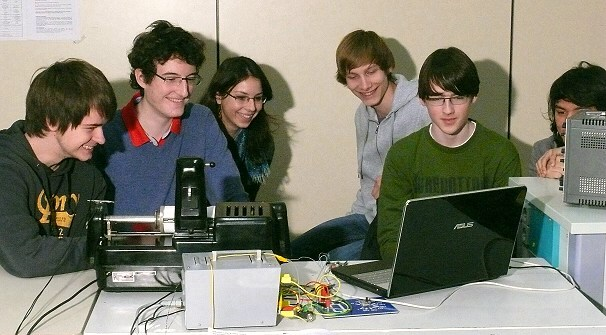
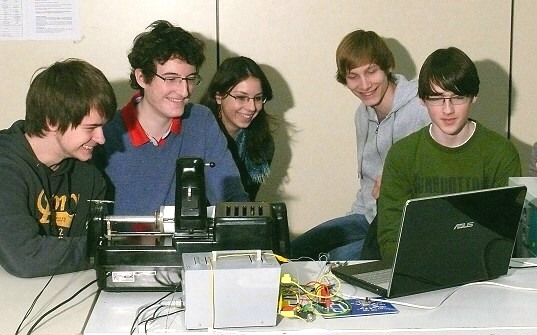
...insbesondere Fax-PC-Projekt erweitert
git-svn-id: https://www.technikum29.de/svn/technikum29-www@1007 388e7c26-a98e-49f6-8d48-46b9a15b27c2

diff --git a/de/lernprojekte/index.php b/de/lernprojekte/index.php
@@ -7,33 +7,39 @@
 ?>
  <h2>Lernprojekte</h2>
 
-<p>Die <i>technikum29-Lernprojekte</i> sind u.a. eine Sammlung von Präsentationsdateien, die zum Teil nur gegen Passworteingabe zugänglich sind. 
 
-Bei Problemen beim Zugriff wenden sie sich an <a href="/de/impressum.php">das Projektmanagament</a>.</p>
-
-<h3 id="aes"> Das technikum29-Team unterstützt Projekte an der Schule</h3>
+<h3 id="aes"> Rotationsfax der 50er Jahre sendet Bild an einen Laptop</h3>
 
 <p>Microcontroller revolutionieren die Welt, wie an Schulen zukunftsweisende Projekte geplant und ausgeführt werden können.<br>
 Worum geht es? <br>
-6 Schüler der Q1 des Albert-Einstein-Gymnasiums suchten für ihre Projektwoche ein interessantes Thema aus den Gebieten Physik/Mathematik/Informatik. Hier bot sich eine Zusammenarbeit der Schule mit dem technikum29 an.  
-Ziel war es, die Technik der 50er Jahre an die aktuelle Zeit anzubinden: Eine Kommunikation zwischen eigentlich nicht zusammenpassenden  Welten!<br>
+5 Schüler der Q1 des Albert-Einstein-Gymnasiums suchten für ihre Projektwoche ein interessantes Thema aus den Gebieten Physik/Mathematik/Informatik. Hier bot sich eine Zusammenarbeit der Schule mit dem technikum29 an.  
+Ziel war es, die Technik der 50er Jahre an die aktuelle Zeit anzubinden: Eine Kommunikation zwischen eigentlich nicht zusammenpassenden  Welten!
 <div class="box left">
-        <img src="/shared/photos/kommunikationstechnik/arduino1.jpg" width="606" height="335" />
+        <img src="/shared/photos/kommunikationstechnik/arduino1.jpg" width="303" height="189" />
        </div>
-<p>Um eine solche Kommunikation herzustellen bedurfte es bisher eines „Herrschaftswissens“ welches sich auf wenige spezialisierte Informatiker und Ingenieure beschränkte. Dafür musste man wochenlang Datenblätter lesen und dann kryptische Codes in Assembler schreiben.
-Seit 2009 gibt es ein preiswertes unscheinbares Modul, den „Arduino* -Controller“, ein kleiner Microcontroller (ATmega 328, mit 32 kB Speicher), der auch relativen Laien  mit überschaubaren Programmierkenntnissen zugänglich ist.  Hiermit können Erfinder, Visionäre, Künstler und Designer ihre kreativen Möglichkeiten drastisch erhöhen. Es geht ganz allgemein um die Anbindung der realen, physikalischen Welt an einen Computer. <br>
+<p>Im Rahmen von "Physical-Computing" gibt es seit 2009 ein preiswertes unscheinbares Modul, den „Arduino* -Controller“, ein kleiner Microcontroller (ATmega 328, mit 32 kB Speicher), in dessen Programmierung sich auch relative Laien schnell einarbeiten können. Hiermit ergibt sich die Möglichkeit für Erfinder, Visionäre, Künstler und Designer ihre Kreativität drastisch zu erhöhen. Es geht ganz allgemein um die Anbindung der realen, physikalischen Welt an einen Computer. <br>
 	 
 <p>Dieses kleine Modul lässt sich als Interface für alle nur denkbare Zwecke programmieren. Die Schüler beabsichtigten, ein Faxgerät der Frühzeit (Siemens KF108, Baujahr 1956) mit einem PC kommunizieren zu lassen. Bei diesem Fax, damals noch „Fernkopierer“ genannt, wird das Blatt mit der zu übertragenden Information (z.B. ein Bild) auf eine Walze gespannt und schraubenförmig durch Rotation ab gescannt. Ein solches Gerät kann natürlich mit den Heutigen nicht kommunizieren. Hier hilft der Microcontroller als Bindeglied. Die Schüler mussten sich in die Programmierung eines solchen Controllers einarbeiten. Dabei sind jedoch einige Hürden zu überwinden, schließlich waren die Schüler (noch) keine Star-Programmierer. Während falsch aufgebaute Hardware umständlich zerpflückt werden müsste, sind falsch laufende Programme schnell korrigiert. Und so entstand nach einer Woche Projektarbeit die perfekte Anbindung dieser zwei so verschiedenen Technikwelten.<br>
 
-<div class="box left">
-        <img src="/shared/photos/kommunikationstechnik/arduino2.jpg" width="606" height="354" />
-       </div>
+<div class="box center">
+        <img src="/shared/photos/kommunikationstechnik/kf108+laptop.jpg" width="700" height="438" />
+      
+	   <p class="bildtext small"> Projekt Fax-PC: Unten links der Versuchsaufbau für die Impulsgenerierung, Mitte: Fertige Schaltung (s.u.). Etwa die Hälfte des Bildes wurde gescannt.</p></div>
+	   
  <p>Das Fax sendet eine Tonfrequenz von 1,5 kHz beim scannen schwarzer Pixel und keinen Ton bei weißen Pixel. Dies muss in ein binäres Signal mit 5V-Level gewandelt werden.<br>
-Eine Verstärkerschaltung mit nachgeschaltetem RC-Glied übernimmt diesen Part.
+Es werden also "Tonpakete" ausgesendet, von denen nur noch die Hüllkurve mit 5V-Pegel benötigt wird. Im einfachsten Fall übernimmt eine Verstärkerschaltung mit nachgeschaltetem RC-Glied diesen Part. In einer verbesserten Version haben wir mit Hilfe des bekannten "555-Timer IC" durch die Schaltung <a class="go"href="http://www.electronicsinfoline.com/pin/11479" target="_blank">"Basic Missing Pulse Detector"</a> die Hüllkurve noch exakter reproduzieren können.<br>
+<div class="box left">
+        <img src="/shared/photos/kommunikationstechnik/impulsgenerierung.jpg" width="303" height="221" />
+		<p class="bildtext small">Schaltung als Bindeglied zwischen Fax und Arduino</p></div>
+	   
 Zum Aufbau des Bildes wird noch eine Information für den jeweiligen Beginn einer neuen Zeile benötigt. Dies wurde durch das Befestigen eines kleinen Supermagneten an der Drehachse realisiert. Ein in ca. 2cm Entfernung befindlicher Reedkontakt wird bei jeder Umdrehung für kurze Zeit aktiviert.<br>
-Die eigentliche Programmierarbeit wurde von den Schülern selbst entwickelt und kann hier eingesehen werden. <a href="arduino-projekt-programme" class="go">Source-Code-Ordner öffnen</a> <br>
+In unserem Fall wurden die weißen Pixel (kein Ton) durch den Arduino in eine "0" umgesetzt, die schwarzen Pixel in eine "1" und ein Zeilensprung (Zylinderumlauf) in eine "2". Damit sendet der Arduino einen aus den Ziffern 0;1;2 bestehenden Datenstream.<br>
+Mit Hilfe des Programms "Processing" generiert der angeschlossene Laptop schließlich daraus das Bild. <br>
 
-Gemächlich wird das schraubenförmig abgetastete Bild in Realtime auf den PC übertragen. Mit guter Auflösung zeichnet sich Zeile für Zeile eine historische Micky-Mouse auf dem Monitor des Laptops ab. Das Experiment ist geglückt und macht Mut zu weiteren kreativen Anwendungen dieser zukunftsweisenden Technik.</p>
+Gemächlich wird das schraubenförmig abgetastete Bild in Realtime auf den PC übertragen. Mit guter Auflösung zeichnet sich Zeile für Zeile eine historische Micky-Maus auf dem Monitor des Laptops ab. Das Experiment ist geglückt und macht Mut zu weiteren kreativen Anwendungen dieser zukunftsweisenden Technik.<br>
+Die eigentliche Programmierarbeit wurde von den Schülern selbst entwickelt und später vom technikum29-Team weiter verbessert. <a href="arduino-projekt-programme" class="go">Source-Code-Ordner öffnen</a> </p>
+
+
 <p class="small">
 *)  Arduino: …ist nach dem König „Arduino von Ivrea“, der im Mittelalter in Norditalien lebte, benannt. Dort wurde auch der Controller entwickelt und nicht wie sonst üblich in Fernost oder Silicon Valley.
 </small>

diff --git a/de/geraete/pianola-funktionserklaerung/index.php b/de/geraete/pianola-funktionserklaerung/index.php
@@ -51,10 +51,10 @@ Ein flacher Notengleitblock mit 88 Öffnungen in einer Reihe (für 88 mögliche 
 <div class="box center" title="Zum Vergrößern klicken">
    <a href="zoomgrafiken/schema-uebersicht.png"><img style="border: none;" src="zoomgrafiken/thumb.schema-uebersicht.png" alt="Pneumatisches Verstärkersystem"></a>
    <p>Schema eines einzelnen Spielbalgs mit Vor- und Hauptventil, welches für den Anschlag einer Saite verantwortlich ist.
-   (<a href="zoomgrafiken/schema-uebersicht.png">größeres Bild</a>)</p>
+   (<a href="zoomgrafiken/schema-uebersicht.png">größeres Bild</a>)
 </div>
 
-<p>Die Funktionsweise eines solchen Systems wird im Folgendenden anschaulich
+Die Funktionsweise eines solchen Systems wird im Folgendenden anschaulich
 erklärt. Ferner stehen ein halbes Dutzend hochauflösende Schemata bereit, die die jeweiligen Stadien erläutern.</p>
 
 
@@ -73,7 +73,7 @@ erklärt. Ferner stehen ein halbes Dutzend hochauflösende Schemata bereit, die 
 den Anschlag eines einzelnen Tones verantwortlich ist. Da das Klavier 88 Töne
 hat, gibt es 88 von diesen kleinen Spielbälge, die in drei Reihen untereinander
 liegen. Sie sind einfach zu groß, um sie alle nebeneinander anbringen zu können. 
-</p> Durch alle Systeme hindurch ziehen sich zwei Kammern, die andauernd
+<br> Durch alle Systeme hindurch ziehen sich zwei Kammern, die andauernd
 Luft raussaugen und so in jedem System einen Unterdruck erzeugen (Unterdruck wird
 gelb dargestellt, atmosphärischer Druck blau). Durch die Position der
 Ventile werden die unterschiedlichen Luftleitungen mit den Unterdruckkammern
@@ -131,11 +131,9 @@ seinem Zustand verbleiben und könnte kein weiteres Mal einen Ton spielen. Noch 
 Unterdruck herrscht. Sie hat jedoch nur eine ganz kleine Öffnung. Dadurch ist sie mit dem System ganz rechts verbunden. Auf diese Weise ist ihre
 Wirkung auf das System zwar nur minimal, jedoch stark genug, um nach dem Verschluss des Loches in der Notenrolle den Unterdruck in dem ersten System wieder schnell herzustellen. Dadurch sinkt auch wieder das Vorventil, im mittleren System entsteht wieder Unterdruck, daraufhin sinkt das Hauptventil nach unten und der Spielbalg zieht sich aufgrund seines eigenen Gewichtes und einer kleinen Feder wieder auseinander.
 <p>Nun ist das Pianola bereit, den nächsten Ton zu spielen. Der ganze Vorgang muss natürlich mit einer sehr hohen Geschwindigkeit ablaufen, damit auch schnelle Läufe fehlerfrei gespielt werden.</p>
-<p>Das Pianola kann Stücke spielen, die aufgrund des schnellen Handwechsels von keinem Spieler spielbar wäre. Daher wurden auch speziell Klavierstücke für Pianola geschrieben, die sehr virtuos sind, z.B. "Studies for Player Piano" von Conlon Nancarrow.</p>
+<p>Das Pianola kann Stücke spielen, die aufgrund des schnellen Handwechsels von keinem Spieler spielbar wäre. Daher wurden auch speziell Klavierstücke für Pianola geschrieben, die sehr virtuos sind, z.B. "Studies for Player Piano" von Conlon Nancarrow.<br>
 
 Würde man intelligente Menschen aus der heutigen hochtechnisierten Zeit damit beauftragen, ein solches Instrument nur mit Hilfe von Holz, Metall, Leder, "Gummihaut" und Knochenleim zu erfinden, kann man davon ausgehen, dass die meisten keine Chance hätten das gesteckte Ziel zu erreichen. Die hier beschriebenen Vorgänge sind eine vereinfachte Version der sehr viel umfangreicheren komplexen Vorgänge in einer Pianola.</p>
-Wenn man überlegt, wie rasend schnell diese Vorgänge ablaufen müssen, so gerät man in Ehrfurcht vor den mechanischen Fähigkeiten der Menschen aus dieser Zeit.
+Wenn man überlegt, wie rasend schnell diese Vorgänge ablaufen müssen, so gerät man in Ehrfurcht vor den mechanischen Fähigkeiten der Menschen aus dieser Zeit.<br><br>
 
-<h3>Präsentationsmaterialien zur Pianola</h3>
-
-<p>Eine Powerpoint-Präsentation steht in den <a href="/de/lernprojekte/#Liste_anderer_Projekte">Lernprojekten</a> unter <a class="go" href="/de/lernprojekte/pianola">Pianola-Präsentation</a> zur Verfügung.</p>
+Eine Powerpoint-Präsentation mit weiteren Bildern während der Restauration steht unter <a class="go" href="/de/lernprojekte/pianola">Pianola-Präsentation</a> zur Verfügung.</p>

diff --git a/robotik/index.php b/robotik/index.php
@@ -119,9 +119,9 @@ Termine für die Kurse in den Sommerferien 2016, jeweils vormittags von 10 bis 1
 	<div  class="box bordered nomargin-bottom" id="3D">
 	<p class="bildtext"><big><big><b>Physical-Computing & Robotics </b></big></big>   (In Vorbereitung) <br><br>
 	
-	Unter Physical Computing versteht man Projekte, bei denen Computer oder Minicontroller (z.B. RasPi, Arduino) durch physische Systeme wie Sensoren oder Aktuatoren zu einer interaktiven Einheit verbunden werden.<br><br>
+	Unter Physical Computing versteht man Projekte, bei denen Computer oder Micro-Controller (z.B. RasPi, Arduino) durch physische Systeme wie Sensoren oder Aktuatoren zu einer interaktiven Einheit verbunden werden.<br><br>
 	Wir beschäftigen uns in diesem Workshop also vorwiegend mit der Programmierung des Arduino Micro-Controllers. Im Gegensatz zu den LEGO-Robotern wird hier eine "richtige" Programmiersprache verwendet, die man auch relativ schnell erlernen kann. Die Abstarktion ist jedoch deutlich größer, daher eignet sich der Kurs für Schüler ab ca. 14 Jahre. Nach oben gibt es eigentlich keine Grenze.<br>
-	Die Liste der möglichen Projekte ist sehr lang. Vom sprechenden Tee-Automaten bis zum intelligenten Roboter-Fahrzeug sind die einzelnen Module sehr abwechslungsreich. Dazu stehen uns eine große Palette an Sensoren, viele verschiedene Display´s und sehr unterschiedliche Motoren zur Verfügung. Ferner haben wir einen 3D-Drucker, mit welchem wir dreidimensionale Objekte und Bauteile ausdrucken können. Diese werden vorher mit Hilfe von CAD-Programmen erstellt.<br>
+	Die Liste der möglichen Projekte ist sehr lang. Vom sprechenden Tee-Automaten bis zum intelligenten Roboter-Fahrzeug sind die einzelnen Projekte sehr abwechslungsreich. Dazu stehen uns eine große Palette an Sensoren, viele verschiedene Display´s und sehr unterschiedliche Motoren zur Verfügung. Ferner haben wir einen 3D-Drucker, mit welchem wir dreidimensionale Objekte und Bauteile ausdrucken können. Diese werden vorher mit Hilfe von CAD-Programmen erstellt.<br>
 	Es handelt sich damit um einen wirklichen Zukunfts-Workshop, den wir zunächst an zwei Schulen in den 8. Klassen anbieten.</p>
 </div>
 

diff --git a/en/study-projects.php b/en/study-projects.php
@@ -13,14 +13,14 @@
 <p>Microcontrollers revolutionize
 and influence next to everything. How can schools participate on these
 developments and perform successful and interesting projects?<br>
-Six pupils of Q1 (12th year in school) of the Albert-Einstein secondary
+Fife pupils of Q1 (12th year in school) of the Albert-Einstein secondary
 school were looking for a suitable idea for their so called "project
 week". This project should be connected to mathematics, physics and/or
 computer science. This is where the technikum29 got involved. The idea
 the pupils came up with was to connect technology from the 1950s with
 modern equipment of 2012. Communication spanning time and technology.<br>
 <div class="box left">
-        <img src="/shared/photos/kommunikationstechnik/arduino1.jpg" width="606" height="335" />
+        <img src="/shared/photos/kommunikationstechnik/arduino1.jpg" width="537" height="335" />
        </div>
 <p>Traditionally such projects required knowledge only accessible to
 computer scientists, engineers and the like. Often they had to spend

diff --git a/de/sonstiges.php b/de/sonstiges.php
@@ -5,7 +5,7 @@
 	
 	require "../lib/technikum29.php";
 ?>
-    <h2>Pianola, Kunst und Anderes</h2><br>
+    <h2>Pianola, Kunst und Anderes</h2>
 
 	<h3 id="pianola">Pianola</h3><br>
 	<p>Unser Museum ist recht vielseitig. Neben der Kommunikations- und Computertechnik haben wir auch einen Leckerbissen der besonderen Art zu bieten: Eine funktionsfähige Pianola, Bj. ca. 1910-15.<br>
